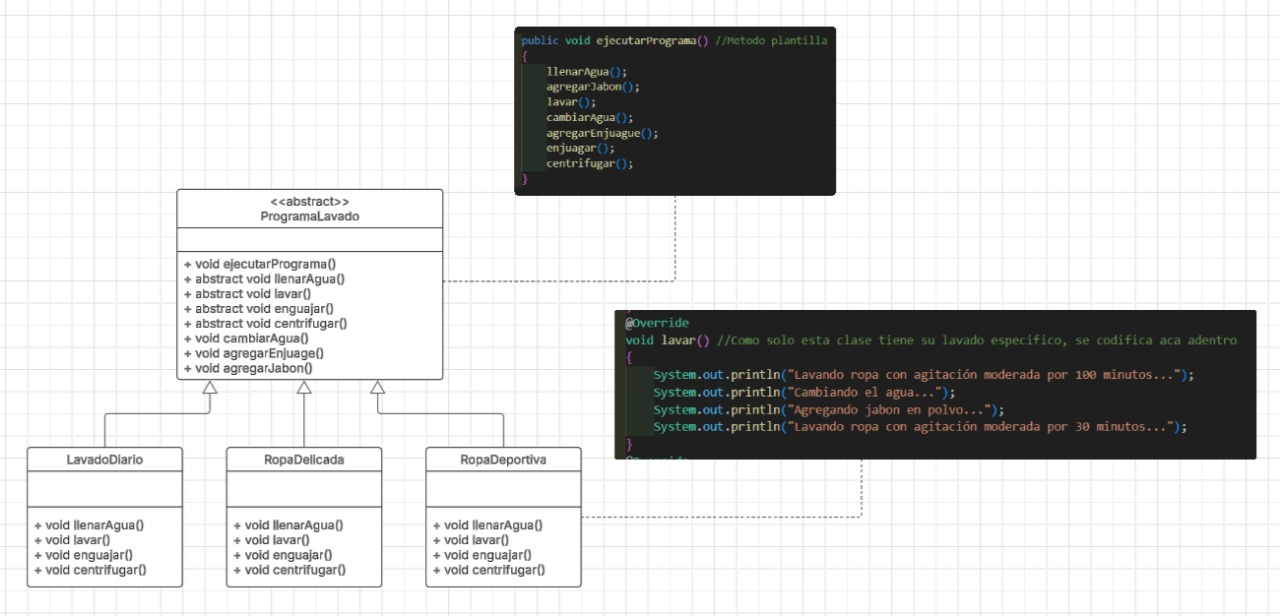
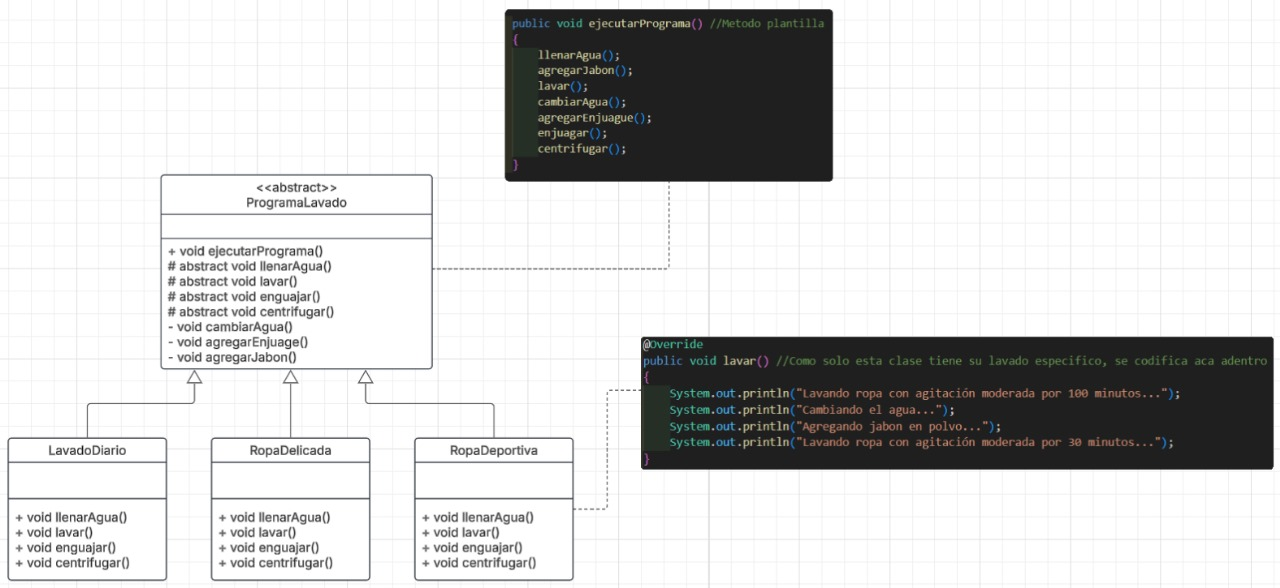
correccion de ejercicio 1

diff --git a/ejercicio_1/RopaDeportiva.java b/ejercicio_1/RopaDeportiva.java
@@ -3,12 +3,12 @@ package ejercicio_1;
 public class RopaDeportiva extends ProgramaLavado
 {
     @Override
-    void llenarAgua()
+    public void llenarAgua()
     {
         System.out.println("Llenando agua hasta el 100%...");
     }
     @Override
-    void lavar() //Como solo esta clase tiene su lavado especifico, se codifica aca adentro
+    public void lavar() //Como solo esta clase tiene su lavado especifico, se codifica aca adentro
     {
         System.out.println("Lavando ropa con agitación moderada por 100 minutos...");
         System.out.println("Cambiando el agua...");
@@ -16,12 +16,12 @@ public class RopaDeportiva extends ProgramaLavado
         System.out.println("Lavando ropa con agitación moderada por 30 minutos...");
     }
     @Override
-    void enjuagar()
+    public void enjuagar()
     {
         System.out.println("Enjuagando con agua limpia por 15 minutos...");
     }
     @Override
-    void centrifugar()
+    public void centrifugar()
     {
         System.out.println("Centrifugando por 10 minutos...");
     }

diff --git a/ejercicio_1/ProgramaLavado.java b/ejercicio_1/ProgramaLavado.java
@@ -13,21 +13,21 @@ public abstract class ProgramaLavado
         centrifugar();
     }
 
-    abstract void llenarAgua();
-    abstract void lavar();
-    abstract void enjuagar();
-    abstract void centrifugar();
+    protected abstract void llenarAgua();
+    protected abstract void lavar();
+    protected abstract void enjuagar();
+    protected abstract void centrifugar();
 
     //Como en todos es igual, no son abstract porque no requieren una reimplementacion
-    void cambiarAgua()
+    private void cambiarAgua()
     {
         System.out.println("Cambiando el agua...");
     }
-    void agregarEnjuague()
+    private void agregarEnjuague()
     {
         System.out.println("Agregando enjuague...");
     }
-    void agregarJabon()
+    private void agregarJabon()
     {
         System.out.println("Agregando jabon en polvo...");
     }

diff --git a/ejercicio_1/LavadoDiario.java b/ejercicio_1/LavadoDiario.java
@@ -3,22 +3,22 @@ package ejercicio_1;
 public class LavadoDiario extends ProgramaLavado
 {
     @Override
-    void llenarAgua()
+    public void llenarAgua()
     {
         System.out.println("Llenando agua hasta el 50%...");
     }
     @Override
-    void lavar()
+    public void lavar()
     {
         System.out.println("Lavando ropa con agitación moderada por 20 minutos...");
     }
     @Override
-    void enjuagar()
+    public void enjuagar()
     {
         System.out.println("Enjuagando por 7 minutos de enjuague con agua limpia...");
     }
     @Override
-    void centrifugar()
+    public void centrifugar()
     {
         System.out.println("Centrifugando por 3 minutos...");
     }

diff --git a/ejercicio_1/RopaDelicada.java b/ejercicio_1/RopaDelicada.java
@@ -3,22 +3,22 @@ package ejercicio_1;
 public class RopaDelicada extends ProgramaLavado
 {
     @Override
-    void llenarAgua()
+    public void llenarAgua()
     {
         System.out.println("Llenando agua hasta el 100%...");
     }
     @Override
-    void lavar()
+    public void lavar()
     {
         System.out.println("Lavando ropa con agitación moderada por 40 minutos...");
     }
     @Override
-    void enjuagar()
+    public void enjuagar()
     {
         System.out.println("Enjuagando con agua limpia por 15 minutos...");
     }
     @Override
-    void centrifugar()
+    public void centrifugar()
     {
         System.out.println("No hay centrifugado...");
     }
